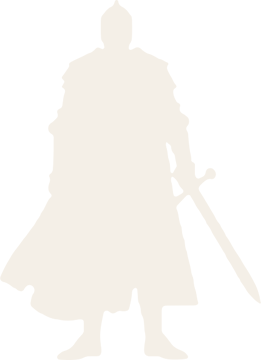
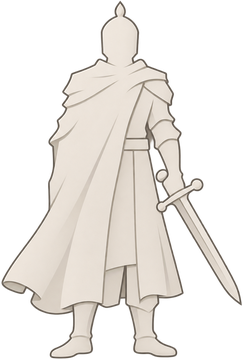
Move SBOR before philosophy and replace warrior image

diff --git a/index.html b/index.html
@@ -36,9 +36,9 @@
         <div class="hidden lg:flex items-center gap-5 xl:gap-7">
           <nav aria-label="Основное меню" class="flex items-center gap-4 xl:gap-6 text-sm font-medium text-[#46413a]">
             <a href="#sistema" class="py-1 transition-colors hover:text-brand">О системе</a>
-            <a href="#sbor" class="py-1 transition-colors hover:text-brand">«СБОР»</a>
             <a href="#programmy" class="py-1 transition-colors hover:text-brand">Программы</a>
             <a href="#klub" class="py-1 transition-colors hover:text-brand">Клуб</a>
+            <a href="#sbor" class="py-1 transition-colors hover:text-brand">«СБОР»</a>
             <a href="#galereya" class="py-1 transition-colors hover:text-brand">Галерея</a>
             <a href="#otzyvy" class="py-1 transition-colors hover:text-brand">Отзывы</a>
           </nav>
@@ -62,9 +62,9 @@
       <div class="wrap py-4">
         <nav aria-label="Мобильное меню" class="flex flex-col text-base font-medium text-[#46413a]">
           <a href="#sistema" class="py-3 border-b border-black/5">О системе</a>
-          <a href="#sbor" class="py-3 border-b border-black/5">«СБОР»</a>
           <a href="#programmy" class="py-3 border-b border-black/5">Программы</a>
           <a href="#klub" class="py-3 border-b border-black/5">Клуб</a>
+          <a href="#sbor" class="py-3 border-b border-black/5">«СБОР»</a>
           <a href="#galereya" class="py-3 border-b border-black/5">Галерея</a>
           <a href="#otzyvy" class="py-3 border-b border-black/5">Отзывы</a>
         </nav>
@@ -175,26 +175,6 @@
     </div>
   </section>
 
-  <!-- ===================== СБОР ===================== -->
-  <section id="sbor" class="bg-ink2 text-[#efeae1] section-y">
-    <div class="wrap grid grid-cols-1 lg:grid-cols-2 gap-[clamp(36px,5vw,72px)] items-center">
-      <a href="https://sborsys.ru/" target="_blank" rel="noopener noreferrer" class="sbor-brand order-2 lg:order-1">
-        <img src="assets/sbor-logo.png" width="886" height="299" alt="СБОР — Система боевая русская" loading="lazy" decoding="async" />
-        <span class="sbor-brand-link">Официальный сайт · sborsys.ru <span aria-hidden="true">↗</span><span class="sr-only"> (откроется в новой вкладке)</span></span>
-      </a>
-      <div class="order-1 lg:order-2">
-        <div class="eyebrow-dark mb-4">Основа подготовки</div>
-        <h2 class="h-section text-white mb-6">Боевая русская система «СБОР»</h2>
-        <p class="text-[16.5px] leading-relaxed text-[#efeae1]/80 m-0 mb-7 max-w-[38em]">«СБОР» — отечественная система ближнего боя, построенная на естественных движениях тела, работе с дистанцией и экономии сил. В её основе не сила и не масса, а структура, баланс и спокойствие. Поэтому она подходит и мужчине, и подростку, и женщине.</p>
-        <div class="grid grid-cols-1 sm:grid-cols-3 lg:grid-cols-1 xl:grid-cols-3 gap-px bg-white/10 border border-white/10 rounded-sm overflow-hidden">
-          <div class="bg-ink2 px-4 py-[18px]"><div class="font-display text-[15px] font-semibold text-white uppercase tracking-wide mb-1">Дистанция</div><div class="text-[13.5px] text-[#efeae1]/70 leading-snug">Чувство расстояния до угрозы</div></div>
-          <div class="bg-ink2 px-4 py-[18px]"><div class="font-display text-[15px] font-semibold text-white uppercase tracking-wide mb-1">Структура</div><div class="text-[13.5px] text-[#efeae1]/70 leading-snug">Устойчивость и расслабленная сила</div></div>
-          <div class="bg-ink2 px-4 py-[18px]"><div class="font-display text-[15px] font-semibold text-white uppercase tracking-wide mb-1">Хладнокровие</div><div class="text-[13.5px] text-[#efeae1]/70 leading-snug">Один встречный — и выход</div></div>
-        </div>
-      </div>
-    </div>
-  </section>
-
   <!-- ===================== ПРОГРАММЫ ===================== -->
   <section id="programmy" class="bg-paper section-y">
     <div class="wrap">
@@ -254,10 +234,30 @@
     </div>
   </section>
 
+  <!-- ===================== СБОР ===================== -->
+  <section id="sbor" class="bg-ink2 text-[#efeae1] section-y">
+    <div class="wrap grid grid-cols-1 lg:grid-cols-2 gap-[clamp(36px,5vw,72px)] items-center">
+      <a href="https://sborsys.ru/" target="_blank" rel="noopener noreferrer" class="sbor-brand order-2 lg:order-1">
+        <img src="assets/sbor-logo.png" width="886" height="299" alt="СБОР — Система боевая русская" loading="lazy" decoding="async" />
+        <span class="sbor-brand-link">Официальный сайт · sborsys.ru <span aria-hidden="true">↗</span><span class="sr-only"> (откроется в новой вкладке)</span></span>
+      </a>
+      <div class="order-1 lg:order-2">
+        <div class="eyebrow-dark mb-4">Основа подготовки</div>
+        <h2 class="h-section text-white mb-6">Боевая русская система «СБОР»</h2>
+        <p class="text-[16.5px] leading-relaxed text-[#efeae1]/80 m-0 mb-7 max-w-[38em]">«СБОР» — отечественная система ближнего боя, построенная на естественных движениях тела, работе с дистанцией и экономии сил. В её основе не сила и не масса, а структура, баланс и спокойствие. Поэтому она подходит и мужчине, и подростку, и женщине.</p>
+        <div class="grid grid-cols-1 sm:grid-cols-3 lg:grid-cols-1 xl:grid-cols-3 gap-px bg-white/10 border border-white/10 rounded-sm overflow-hidden">
+          <div class="bg-ink2 px-4 py-[18px]"><div class="font-display text-[15px] font-semibold text-white uppercase tracking-wide mb-1">Дистанция</div><div class="text-[13.5px] text-[#efeae1]/70 leading-snug">Чувство расстояния до угрозы</div></div>
+          <div class="bg-ink2 px-4 py-[18px]"><div class="font-display text-[15px] font-semibold text-white uppercase tracking-wide mb-1">Структура</div><div class="text-[13.5px] text-[#efeae1]/70 leading-snug">Устойчивость и расслабленная сила</div></div>
+          <div class="bg-ink2 px-4 py-[18px]"><div class="font-display text-[15px] font-semibold text-white uppercase tracking-wide mb-1">Хладнокровие</div><div class="text-[13.5px] text-[#efeae1]/70 leading-snug">Один встречный — и выход</div></div>
+        </div>
+      </div>
+    </div>
+  </section>
+
   <!-- ===================== ФИЛОСОФИЯ + ВОИН ===================== -->
   <section class="bg-ink2 text-[#efeae1] py-[clamp(72px,9vw,130px)] px-[var(--gutter)]">
     <div class="max-w-[760px] mx-auto text-center">
-      <img src="assets/warrior.png" width="261" height="360" alt="" class="block h-[120px] w-auto mx-auto mb-7 opacity-50" />
+      <img src="assets/warrior.png" width="243" height="360" alt="" class="block h-[120px] w-auto mx-auto mb-7 opacity-50" />
       <p class="font-serif italic text-[clamp(22px,3vw,34px)] leading-snug text-[#f3eee6] m-0 mb-7 text-balance">Настоящая сила — внутри. Снаружи остаётся только спокойствие.</p>
       <p class="text-base leading-relaxed text-[#efeae1]/75 m-0 max-w-[34em] mx-auto">И есть один побочный эффект: вы перестаёте испытывать резкий выброс адреналина в тёмных переулках. «Пещеры страха» становятся для вас обычными городскими локациями, а опасные улицы — просто улицами.</p>
     </div>
@@ -337,9 +337,9 @@
         <div class="font-display text-xs tracking-[0.18em] uppercase text-[#cfc9bd]/65 mb-4">Разделы</div>
         <div class="flex flex-col gap-2.5 text-sm">
           <a href="#sistema" class="text-[#cfc9bd]/80 transition-colors hover:text-white">О системе</a>
-          <a href="#sbor" class="text-[#cfc9bd]/80 transition-colors hover:text-white">Система «СБОР»</a>
           <a href="#programmy" class="text-[#cfc9bd]/80 transition-colors hover:text-white">Программы</a>
           <a href="#klub" class="text-[#cfc9bd]/80 transition-colors hover:text-white">Клуб</a>
+          <a href="#sbor" class="text-[#cfc9bd]/80 transition-colors hover:text-white">Система «СБОР»</a>
           <a href="#zayavka" class="text-[#cfc9bd]/80 transition-colors hover:text-white">Записаться</a>
         </div>
       </div>
